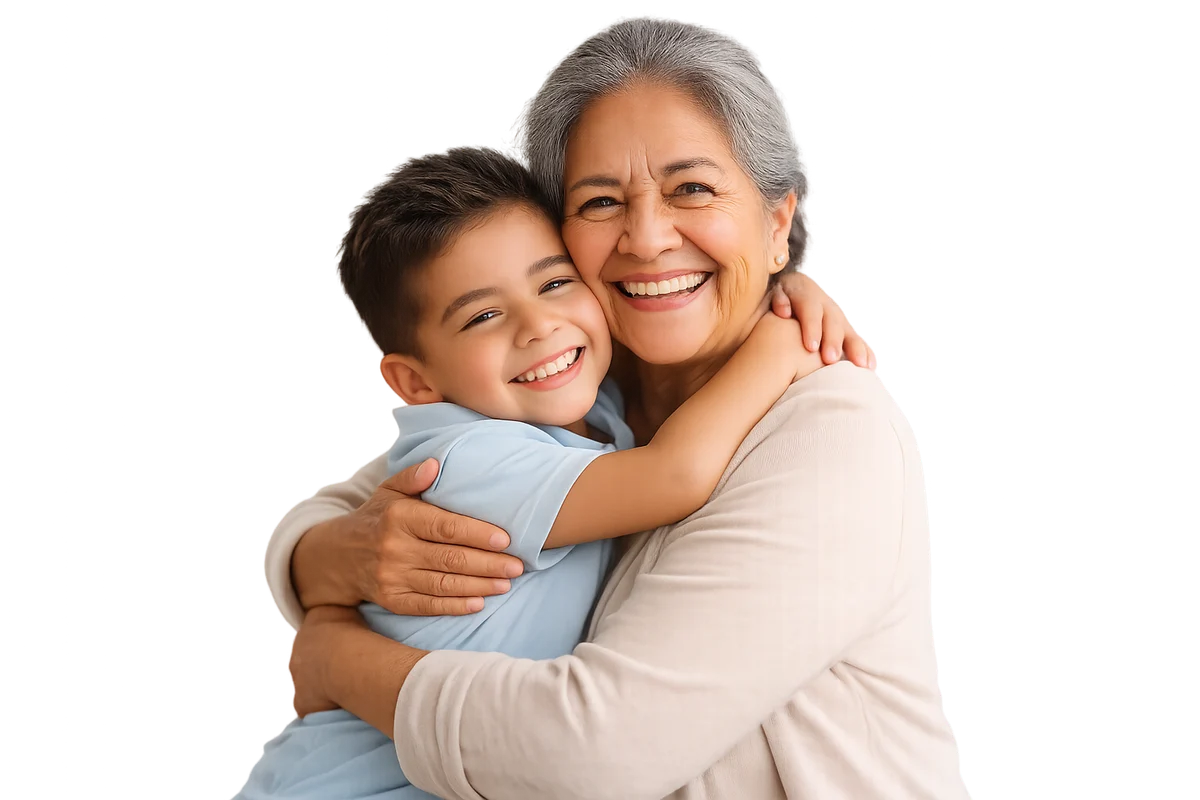
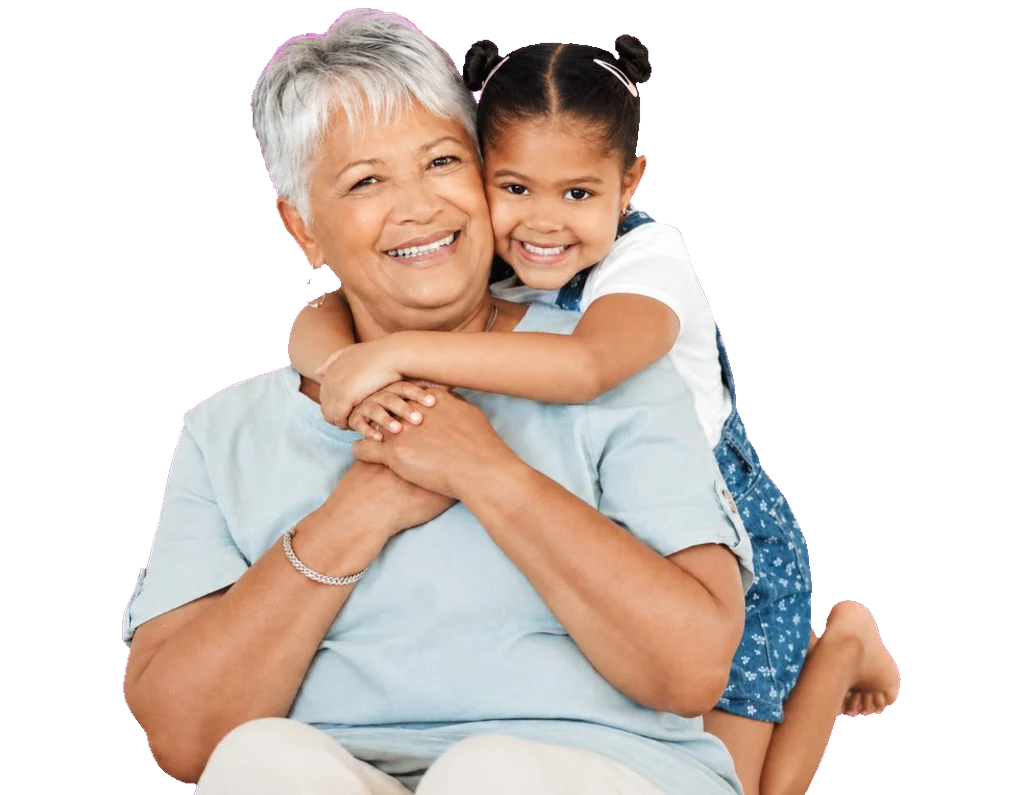
Replace hero grandma-grandson slide with new studio portrait.
Keys out the magenta background, ships WebP/PNG, and uses large top-anchored framing consistent with the other refreshed hero cutouts.

diff --git a/sources/index.html b/sources/index.html
@@ -223,8 +223,9 @@
       transform-origin: center bottom;
     }
     .carousel-slide:nth-child(4) img {
-      transform: scale(1.3);
-      transform-origin: center bottom;
+      object-position: center top;
+      transform: scale(1.72) translateY(-6%);
+      transform-origin: center top;
     }
     .carousel-slide:nth-child(5) img {
       object-position: center top;
@@ -263,8 +264,9 @@
     }
     .carousel-slide:nth-child(4).active img {
       animation: none;
-      transform: scale(1.3);
-      transform-origin: center bottom;
+      object-position: center top;
+      transform: scale(1.72) translateY(-6%);
+      transform-origin: center top;
     }
     .carousel-slide:nth-child(5).active img {
       animation: none;
@@ -313,7 +315,8 @@
       }
       .carousel-slide:nth-child(4) img,
       .carousel-slide:nth-child(4).active img {
-        transform: scale(1.16);
+        object-position: center top;
+        transform: scale(1.48) translateY(-4%);
       }
       .carousel-slide:nth-child(5) img,
       .carousel-slide:nth-child(5).active img {
@@ -1477,7 +1480,7 @@
             <div class="carousel-slide">
               <picture>
                 <source type="image/webp" srcset="img/opt/grandma-grandson.webp" />
-                <img src="img/opt/grandma-grandson.jpg" alt="Abuela y nieto" width="1200" height="800" loading="lazy" decoding="async" />
+                <img src="img/opt/grandma-grandson.png" alt="Abuela y nieta" width="1024" height="795" loading="lazy" decoding="async" />
               </picture>
             </div>
             <div class="carousel-slide">

diff --git a/en/index.html b/en/index.html
@@ -216,8 +216,9 @@
       transform-origin: center bottom;
     }
     .carousel-slide:nth-child(4) img {
-      transform: scale(1.3);
-      transform-origin: center bottom;
+      object-position: center top;
+      transform: scale(1.72) translateY(-6%);
+      transform-origin: center top;
     }
     .carousel-slide:nth-child(5) img {
       object-position: center top;
@@ -256,8 +257,9 @@
     }
     .carousel-slide:nth-child(4).active img {
       animation: none;
-      transform: scale(1.3);
-      transform-origin: center bottom;
+      object-position: center top;
+      transform: scale(1.72) translateY(-6%);
+      transform-origin: center top;
     }
     .carousel-slide:nth-child(5).active img {
       animation: none;
@@ -306,7 +308,8 @@
       }
       .carousel-slide:nth-child(4) img,
       .carousel-slide:nth-child(4).active img {
-        transform: scale(1.16);
+        object-position: center top;
+        transform: scale(1.48) translateY(-4%);
       }
       .carousel-slide:nth-child(5) img,
       .carousel-slide:nth-child(5).active img {
@@ -1447,7 +1450,7 @@
 <div class="carousel-slide">
 <picture>
 <source srcset="../img/opt/grandma-grandson.webp" type="image/webp"/>
-<img alt="Abuela y nieto" decoding="async" height="800" loading="lazy" src="../img/opt/grandma-grandson.jpg" width="1200"/>
+<img alt="Grandmother and granddaughter" decoding="async" height="795" loading="lazy" src="../img/opt/grandma-grandson.png" width="1024"/>
 </picture>
 </div>
 <div class="carousel-slide">

diff --git a/index.html b/index.html
@@ -203,8 +203,9 @@
       transform-origin: center bottom;
     }
     .carousel-slide:nth-child(4) img {
-      transform: scale(1.3);
-      transform-origin: center bottom;
+      object-position: center top;
+      transform: scale(1.72) translateY(-6%);
+      transform-origin: center top;
     }
     .carousel-slide:nth-child(5) img {
       object-position: center top;
@@ -243,8 +244,9 @@
     }
     .carousel-slide:nth-child(4).active img {
       animation: none;
-      transform: scale(1.3);
-      transform-origin: center bottom;
+      object-position: center top;
+      transform: scale(1.72) translateY(-6%);
+      transform-origin: center top;
     }
     .carousel-slide:nth-child(5).active img {
       animation: none;
@@ -293,7 +295,8 @@
       }
       .carousel-slide:nth-child(4) img,
       .carousel-slide:nth-child(4).active img {
-        transform: scale(1.16);
+        object-position: center top;
+        transform: scale(1.48) translateY(-4%);
       }
       .carousel-slide:nth-child(5) img,
       .carousel-slide:nth-child(5).active img {
@@ -1450,7 +1453,7 @@
 <div class="carousel-slide">
 <picture>
 <source srcset="img/opt/grandma-grandson.webp" type="image/webp"/>
-<img alt="Abuela y nieto" decoding="async" height="800" loading="lazy" src="img/opt/grandma-grandson.jpg" width="1200"/>
+<img alt="Abuela y nieta" decoding="async" height="795" loading="lazy" src="img/opt/grandma-grandson.png" width="1024"/>
 </picture>
 </div>
 <div class="carousel-slide">

diff --git a/scripts/optimize-images.js b/scripts/optimize-images.js
@@ -20,7 +20,7 @@ const JOBS = [
   { src: "img/business-man.png", maxWidth: 681, maxHeight: 1024, keepPng: true },
   { src: "img/hero-couple-embrace.png", maxWidth: 681, maxHeight: 1024 },
   { src: "img/happy-family.png", maxWidth: 1400, maxHeight: 900 },
-  { src: "img/grandma-grandson.png", maxWidth: 1200, maxHeight: 800 },
+  { src: "img/grandma-grandson.png", maxWidth: 1024, maxHeight: 795, keepPng: true },
   { src: "img/woman-flowers.png", maxWidth: 566, maxHeight: 1024, keepPng: true },
   { src: "img/julie-about.png", maxWidth: 530, maxHeight: 795 },
   { src: "img/logo-spanish2.png", maxWidth: 800, maxHeight: 534, keepPng: true },
